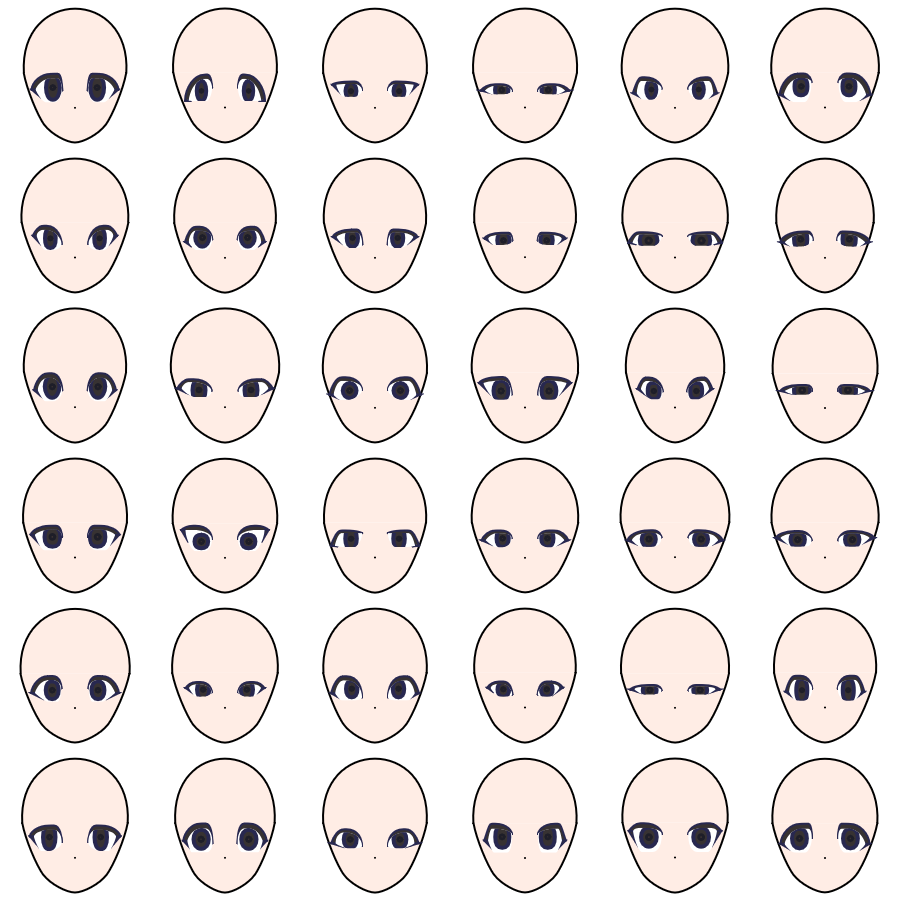
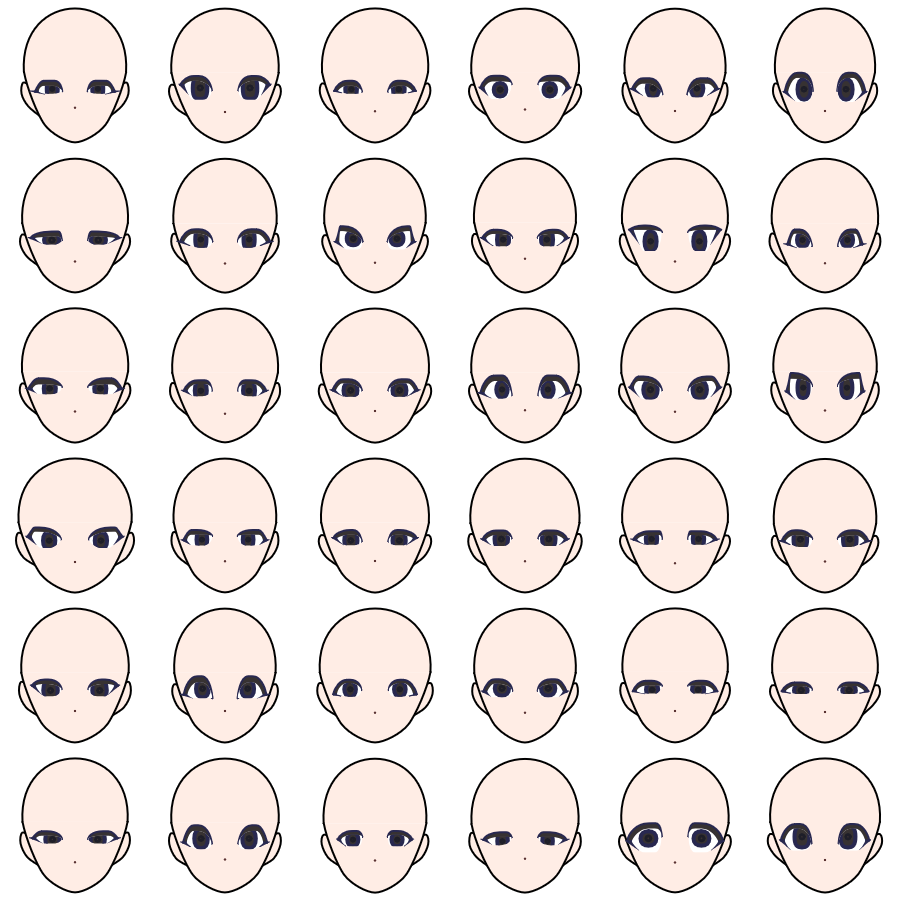
draw ears, nose

diff --git a/ChernoffFace.js b/ChernoffFace.js
@@ -41,7 +41,7 @@
         eye_width_Para = 0.5;
         eye_inSide_Para = 0.5;
         eye_tPoint_Para = 0.5;
-        eye_tPoint1_Para = 0.2;
+        eye_tPoint1_Para = 0.3;
         eye_outSide_Para = 0.5;
         eye_bPoint_Para = 0.3;
         eye_bPoint1_Para = 0.5;
@@ -58,6 +58,7 @@
         eye_bPoint_CP2 = 0.5;
         eye_bPoint1_CP1 = 0.4;
         eye_bPoint1_CP2 = 0.5;
+        eyelash_height = 0.5;
 
         pupil_CPX = 0.6;
         pupil_CPY = 0.6;
@@ -65,6 +66,11 @@
         pupilYoffset = 0.5;
         pupilW = 0.5;
         pupilH = 0.5;
+
+        earX = 0.5;
+        earY = 0.5;
+
+        noseY = 0.5;
 
         constructor(x, y, w){
             this.x = x;
@@ -94,6 +100,8 @@
             this.eye_bPoint_CP2 = constrain(randomGaussian(this.eye_bPoint_CP2, 0.1), 0 , 1);
             this.eye_bPoint1_CP1 = constrain(randomGaussian(this.eye_bPoint1_CP1, 0.1), 0 , 1);
             this.eye_bPoint1_CP2 = constrain(randomGaussian(this.eye_bPoint1_CP2, 0.1), 0 , 1);
+            
+            this.eyelash_height = map(randomGaussian(this.eyelash_height, 0.3), 0 , 1, 0.02, 0.045, true);
 
             this.pupil_CPX = constrain(randomGaussian(this.pupil_CPX, 0.05), 0 , 1);
             this.pupil_CPY = constrain(randomGaussian(this.pupil_CPY, 0.1), 0 , 1);
@@ -102,6 +110,10 @@
             this.pupilW = map(randomGaussian(this.pupilW, 0.3), 0 , 1, 0.2 , 0.3, true);
             this.pupilH = map(randomGaussian(this.pupilH, 0.3), 0 , 1, 0.05, 0.09, true);
             this.eye_width_Para = map(this.eye_width_Para, 0 ,1 , 0.2 , 0.3, true);
+
+            this.earX = map(randomGaussian(this.earX, 0.25), 0 ,1 , 0.11 , 0.14, true);
+            this.earY = map(randomGaussian(this.earY, 0.25), 0 ,1 , 0.03 , 0.06, true);
+            this.noseY = map(randomGaussian(this.noseY, 0.25), 0 ,1 , 0 , 0.05, true);
         }
     }
 
@@ -140,8 +152,8 @@
             fill(255, 237, 229);
             let mandibleAngleXoffset = this.faceWidth / 8 * 2.4;//下顎骨
             let earX = curvePoint(faceBoundR, faceBoundR, this.x + mandibleAngleXoffset, this.x, 0.5);
-            let earX1 = curvePoint(faceBoundR, earX, this.x + mandibleAngleXoffset, this.x, 0.5);
-            this.DrawEars(earX - this.x, earX1 - this.x, this.centerY, this.centerY + noseYoffest);
+            let earX1 = curvePoint(faceBoundR, earX, this.x + mandibleAngleXoffset, this.x, 0.75);
+            this.DrawEars(earX - this.x, earX1 - this.x, this.centerY, this.centerY + (mouseYoffest + noseYoffest)/2);
 
             beginShape();
             vertex(faceBoundL, faceMostWidthPointY);
@@ -202,7 +214,7 @@
             let tY = y - height / 2;
             let bY = y + height / 2;
 
-            let eyelashY = tY - height * 0.19;
+            let eyelashY = tY - this.faceHeight * this.faceData.eyelash_height;
             fill(55, 50, 50);
             stroke(40, 40, 80);
             let eyelashOffset = width * 0.15;
@@ -413,7 +425,9 @@
         }
 
         DrawNose(x, y){
-            this.TestPoint(x, y);
+            stroke(90, 50, 50);
+            strokeWeight(2.5);
+            point(x,y+this.faceHeight*this.faceData.noseY);
         }
 
         DrawMouse(x, y, s){
@@ -421,11 +435,23 @@
             this.TestPoint(x - s/2, y + 0);
         }
 
-        DrawEars(x1, x2, y, y1){
-            this.TestPoint(this.x + x1, y + 0);
-            this.TestPoint(this.x + x2, y1 + 0);
-            this.TestPoint(this.x - x1, y + 0);
-            this.TestPoint(this.x - x2, y1 + 0);
+        DrawEars(x1, x2, y1, y2){
+            fill(255, 237, 229);
+            for(let i =0; i < 2; i++){
+                beginShape();
+                curveTightness(0.0);
+                this.DrawTestCurveVertex(this.x + x1, y1-this.faceHeight*0.02);
+                this.DrawTestCurveVertex(this.x + x1, y1-this.faceHeight*0.02);
+                this.DrawTestCurveVertex(this.x + x1*1.21, y1-this.faceHeight*this.faceData.earY);
+                this.DrawTestCurveVertex(this.x + x1*1.25, y1+this.faceHeight*0.03);
+                this.DrawTestCurveVertex(this.x + x1*1.1, y1+this.faceHeight*this.faceData.earX);
+                this.DrawTestCurveVertex(this.x + x2, y2);
+                this.DrawTestCurveVertex(this.x + x2, y2);
+                this.DrawTestCurveVertex(this.x + x2, y2);
+                x1*=-1;
+                x2*=-1;
+                endShape();
+            }
         }
 
         TestPoint(x, y){
